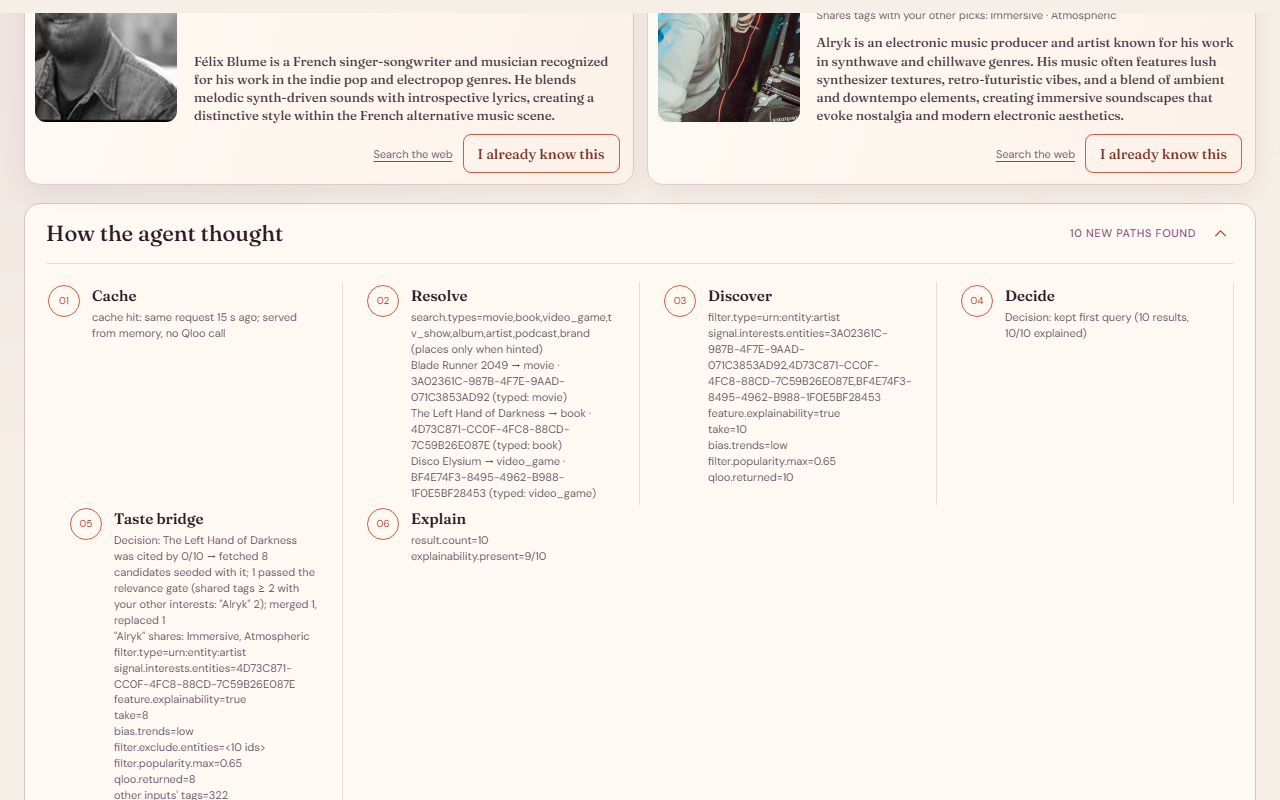
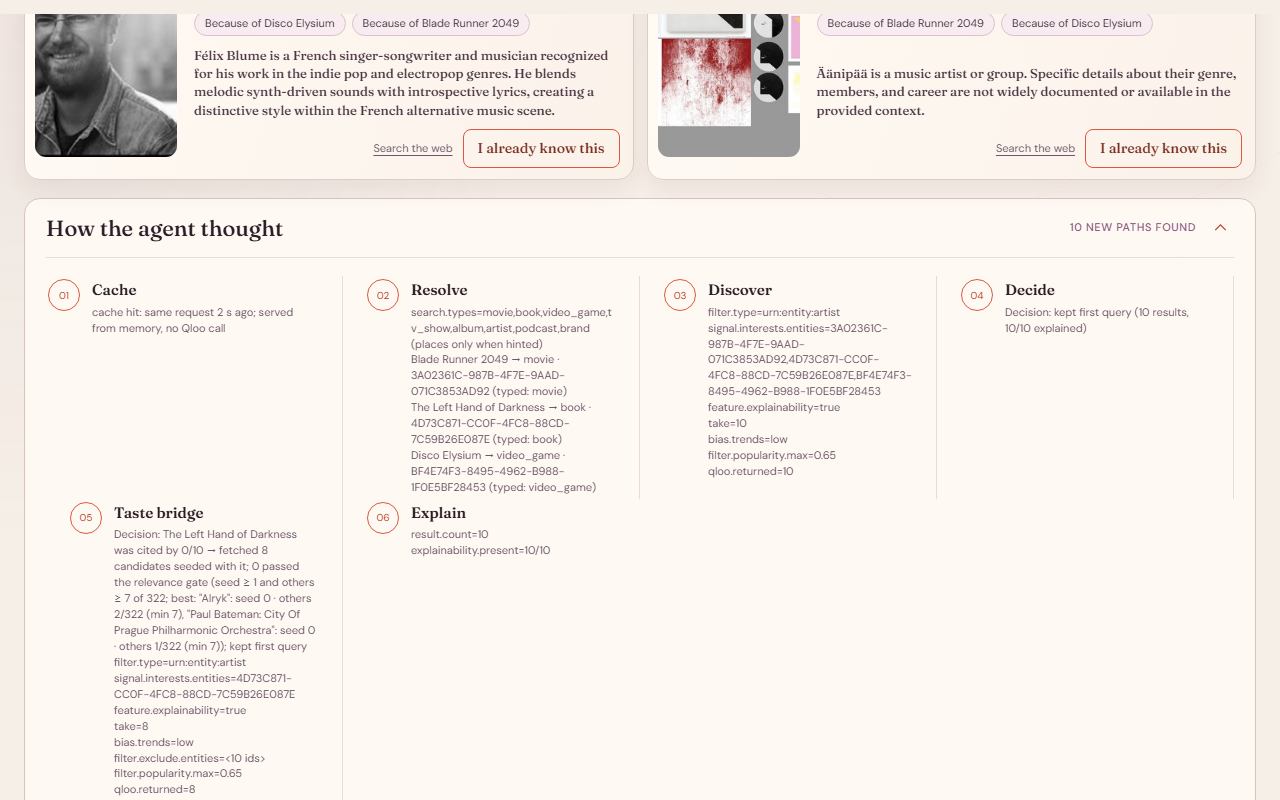
Bridge gate final: seed overlap ≥1 and others ≥2 (2%-of-union minimum was too strict on live)
63 tests in 6 files

Claude-Session: https://claude.ai/code/session_015bfJDXbxR3fNRPEXQYJQCV

diff --git a/server/src/agent.ts b/server/src/agent.ts
@@ -36,18 +36,12 @@ const POPULARITY_CEILING = 0.96;
 /** Page size of the one extra taste-bridge query seeded with an uncited input alone: a candidate pool, not results. */
 export const BRIDGE_TAKE = 8;
 /**
- * Relevance gate (thresholds set on 2026-10-27 live runs): a candidate must share >= BRIDGE_MIN_SEED_TAGS tags with
- * the seed input itself AND >= max(BRIDGE_MIN_SHARED_TAGS, ceil(BRIDGE_SHARED_SHARE x union size)) tags with the union
- * of the user's OTHER inputs' tags (that union runs to ~300 tags live, so a flat 2 let everything through).
+ * Relevance gate (final thresholds, 2026-10-27): a candidate must share >= BRIDGE_MIN_SEED_TAGS tag with the seed input
+ * itself AND >= BRIDGE_MIN_OTHER_TAGS tags with the union of the user's OTHER inputs' tags. The seed rule is what rejects
+ * look-alikes of the other inputs; a union-relative minimum was too strict live (union ~330 tags).
  */
 export const BRIDGE_MIN_SEED_TAGS = 1;
-export const BRIDGE_MIN_SHARED_TAGS = 2;
-export const BRIDGE_SHARED_SHARE = 0.02;
-
-/** Minimum tags a candidate must share with the other inputs' tag union of `unionSize`. */
-export function bridgeMinShared(unionSize: number): number {
-  return Math.max(BRIDGE_MIN_SHARED_TAGS, Math.ceil(BRIDGE_SHARED_SHARE * unionSize));
-}
+export const BRIDGE_MIN_OTHER_TAGS = 2;
 /** At most this many bridge candidates replace first-query cards. */
 export const BRIDGE_MAX_MERGE = 3;
 /** Tags that say nothing about taste (formats, platforms, audience age brackets) never count as shared. */
@@ -457,8 +451,8 @@ export class DiscoveryAgent {
   /**
    * The agent's taste decision. Count how many cards cite each input. If one input is cited by none, run ONE extra
    * /v2/insights call seeded with that input alone (same type and distance parameters, take=8) as a *candidate pool*.
-   * A candidate is merged only if it shares >= 1 tag with the seed itself AND >= bridgeMinShared(union) tags with the
-   * union of the user's OTHER inputs' tags (ranked by the latter, then affinity); at most BRIDGE_MAX_MERGE merge, each replacing the
+   * A candidate is merged only if it shares >= 1 tag with the seed itself AND >= 2 tags with the
+   * union of the user's OTHER inputs' tags (ranked by the latter, then seed tags, then affinity); at most BRIDGE_MAX_MERGE merge, each replacing the
    * lowest-affinity first-query card that is not some input's only citation. No passing candidate → nothing merges.
    */
   private async tasteBridge(
@@ -500,18 +494,18 @@ export class DiscoveryAgent {
     const seedTags = keys(await this.tagsOf(target));
     const others = resolved.filter((entity) => entity.id !== target.id);
     const otherTags = keys((await Promise.all(others.map((entity) => this.tagsOf(entity)))).flat());
-    const minShared = bridgeMinShared(otherTags.size);
     const scored = candidates
       .map((insight, index) => ({ insight, index, seed: sharedTags(insight.tags, seedTags), shared: sharedTags(insight.tags, otherTags) }))
       .sort((a, b) => b.shared.length - a.shared.length
+        || b.seed.length - a.seed.length
         || (affinityOf(b.insight) ?? -Infinity) - (affinityOf(a.insight) ?? -Infinity)
         || (b.insight.popularity ?? -Infinity) - (a.insight.popularity ?? -Infinity)
         || a.index - b.index);
-    const passed = scored.filter((entry) => entry.seed.length >= BRIDGE_MIN_SEED_TAGS && entry.shared.length >= minShared);
+    const passed = scored.filter((entry) => entry.seed.length >= BRIDGE_MIN_SEED_TAGS && entry.shared.length >= BRIDGE_MIN_OTHER_TAGS);
     const fetched = `→ fetched ${candidates.length} candidate${candidates.length === 1 ? "" : "s"} seeded with it`;
-    const gate = `seed ≥ ${BRIDGE_MIN_SEED_TAGS} and others ≥ ${minShared} of ${otherTags.size}`;
+    const gate = `seed ≥ ${BRIDGE_MIN_SEED_TAGS} and others ≥ ${BRIDGE_MIN_OTHER_TAGS} of ${otherTags.size}`;
     const quote = (entries: typeof scored) => entries
-      .map((entry) => `"${entry.insight.name}": seed ${entry.seed.length} · others ${entry.shared.length}/${otherTags.size} (min ${minShared})`).join(", ");
+      .map((entry) => `"${entry.insight.name}": seed ${entry.seed.length} · others ${entry.shared.length}/${otherTags.size} (min ${BRIDGE_MIN_OTHER_TAGS})`).join(", ");
     const params = `\n${formatInsightsQuery(bridgeQuery)}\nqloo.returned=${extra.length}\nother inputs' tags=${otherTags.size}`;
 
     // Room: a short first page takes candidates without dropping anything; otherwise replace the weakest cards.

diff --git a/server/src/bridge.test.ts b/server/src/bridge.test.ts
@@ -1,5 +1,5 @@
 import { afterEach, describe, expect, it, vi } from "vitest";
-import { BRIDGE_TAKE, DiscoveryAgent, bridgeMinShared, pickCardsToDrop, sharedTags } from "./agent.js";
+import { BRIDGE_TAKE, DiscoveryAgent, pickCardsToDrop, sharedTags } from "./agent.js";
 import { HttpQlooClient, decodeEntities } from "./http-qloo-client.js";
 import { MockQlooClient } from "./mock-qloo-client.js";
 import type { InsightQuery, QlooClient, QlooInsight, ResolvedEntity } from "./types.js";
@@ -102,9 +102,7 @@ describe("taste bridge", () => {
     expect(again.bridge?.merged).toBe(3);
   });
 
-  it("rejects candidates that fit the other inputs but not the seed, and scales the bar with the union size", async () => {
-    expect(bridgeMinShared(6)).toBe(2);
-    expect(bridgeMinShared(322)).toBe(7);
+  it("rejects candidates that fit the other inputs but not the seed", async () => {
     // Twin Peaks + Kind of Blue + Aesop: murder-mystery books match Twin Peaks richly but share nothing with the album.
     const tags: Record<string, string[]> = {
       "Twin Peaks": ["murder", "mystery", "small town", "surreal", "detective"],
@@ -128,6 +126,23 @@ describe("taste bridge", () => {
     expect(line).toBe("Decision: Kind of Blue was cited by 0/10 → fetched 2 candidates seeded with it; 0 passed the relevance gate "
       + "(seed ≥ 1 and others ≥ 2 of 8; best: \"Mystery One\": seed 0 · others 4/8 (min 2), \"Jazz Diary\": seed 1 · others 1/8 (min 2)); kept first query");
     expect(result.recommendations.some((item) => item.bridgedFrom)).toBe(false);
+  });
+
+  it("passes seed 2 · others 3 even when the other inputs' tag union is large", async () => {
+    const big = Array.from({ length: 40 }, (_, index) => `t${index}`);
+    const tags: Record<string, string[]> = { Seed: ["alpha", "beta"], Other: [...big, "x", "y", "z"] };
+    const fake: QlooClient = {
+      mode: "mock",
+      search: async (name) => [{ id: `id:${name}`, name, type: "movie", tags: tags[name] ?? [] }],
+      insights: async (query) => query.signalEntityIds.length === 1
+        ? [{ id: "c1", name: "Candidate", type: "artist", description: "", affinitySourceIds: [], affinitySourceNames: [], affinity: 0.5, tags: ["Alpha", "Beta", "X", "Y", "Z"] }]
+        : Array.from({ length: 10 }, (_, index) => ({ id: `r${index}`, name: `R${index}`, type: "artist", description: "",
+          affinitySourceIds: ["id:Other", "id:Third"], affinitySourceNames: [], affinity: index / 10 })),
+    };
+    const result = await new DiscoveryAgent(fake, noOneLiners).discover({ interests: ["Seed", "Other", "Third"], targetType: "artist", distance: 0 });
+    const line = result.trace.find((step) => step.stage === "bridge")?.detail.split("\n")[0] ?? "";
+    expect(line).toContain('"Candidate": seed 2 · others 3/43 (min 2)');
+    expect(result.bridge).toEqual({ input: "Seed", candidates: 1, passed: 1, merged: 1 });
   });
 
   it("drops the lowest-affinity cards but never an input's only citation", () => {

diff --git a/docs/DEVPOST.md b/docs/DEVPOST.md
@@ -1,6 +1,6 @@
 # Devpost submission draft: Out of the Bubble
 
-> Status: final text except the run numbers. All numbers: live site `/api/discover` (real Qloo key), 2026-10-27, measured with taste bridge **v1** (commit a88cab7, which merged 4 seeded cards unconditionally); re-measure after the v2 deploy. Cells marked † come from the earlier pre-bridge run the same day.
+> Status: final text. All numbers: live site `/api/discover` (real Qloo key), measured 2026-10-27; the table's ‡ note says which commit each cell ran on.
 
 ## Project name
 Out of the Bubble
@@ -36,25 +36,17 @@ The agent returns 10 ranked cards. Each card shows the recommendation, its categ
 
 If you already know one, press **"I already know this."** The agent excludes it, along with everything currently on screen, and refills that slot with a new result. Known items stay excluded across re-runs (slider moves, match switches, refills); only Start over or a different set of inputs clears them. The **"How the agent thought"** panel shows each step: Resolve, Discover, Decide, Taste bridge, Explain, and each Refill appended below the run.
 
-**A real run** (live site, 2026-10-27). Input: *Blade Runner 2049*, *The Left Hand of Darkness*, *Disco Elysium*. Target: artists.
+**Measured 2026-10-27 on the live site** (one `/api/discover` call per cell, real Qloo key). Default example: *Blade Runner 2049*, *The Left Hand of Darkness*, *Disco Elysium* → artists; examples 02 (Nausicaa, Braiding Sweetgrass, Patagonia → places in Kyoto) and 03 (Hades, Hadestown, Circe → podcasts) at Out of the bubble. Cited = cards on which Qloo's explainability names the input; seeded cards are not counted as cited.
 
-| Distance | First results (Qloo order) | Mean popularity of the 10 results |
-|---|---|---|
-| Next door | Oneohtrix Point Never, Yves Tumor, Iglooghost, Against All Logic, Aphex Twin | 0.845 (range 0.336 to 0.999) |
-| Across town | Daniel Lopatin, Hiroshi Yoshimura, Lingua Ignota, Spellling, Mid-Air Thief | 0.824 (range 0.336 to 0.955) |
-| Out of the bubble | Rural Internet, Voyage Futur, Sofie Birch, Dear Laika, Argo Nuff | 0.379 (range 0.082 to 0.619) |
+| Cell | Results | Cited (per input, in order) | Taste bridge | Explained | Mean popularity (range) |
+|---|---|---|---|---|---|
+| 01 Next door ‡ | 10 | 9 / 0 / 9 | book: 8 candidates, 1 passed, 1 merged | 9/10 | 0.952 (0.772–0.999) |
+| 01 Across town ‡ | 10 | 9 / 0 / 9 | book: 8 candidates, 1 passed, 1 merged | 9/10 | 0.884 (0.611–0.955) |
+| 01 Out of the bubble | 10 | 10 / 0 / 10 | book: 8 candidates, 0 passed, 0 merged, kept first query | 10/10 | 0.405 (0.131–0.619) |
+| 02 Out of the bubble ‡ | 10 | 0 / 7 / 7 | film: 8 candidates, 6 passed, 3 merged | 7/10 | 0.344 (0.013–0.550) |
+| 03 Out of the bubble ‡ | 10 | 10 / 0 / 10 | Hadestown: 8 candidates, 0 passed, 0 merged, kept first query | 10/10 | 0.510 (0.100–0.629) |
 
-In the first query Qloo credited the film and the game on all 10 cards and the book on none (10 / 0 / 10). Bridge v1 then merged 4 book-seeded cards at every stop; a reviewer found several off-taste (rockabilly, Brazilian funk), which is why v2 gates them on relevance (below). The overlap figures here still include v1's seeded cards.
-
-All three examples at all three stops. Each cell: cards with a Qloo explanation · mean popularity (range).
-
-| Example → resolves to | Next door | Across town | Out of the bubble | Shared cards ND–AT / AT–OB / ND–OB |
-|---|---|---|---|---|
-| 01 → artists (movie, book, video_game) | 10/10 · 0.845 (0.336–0.999) | 10/10 · 0.824 (0.336–0.955) | 10/10 · 0.379 (0.082–0.619) | 5 / 1 / 1 |
-| 02 → places in Kyoto (movie, book, brand) | 10/10 · 0.711 (0.449–0.989) † | 10/10 · 0.631 (0.179–0.927) † | 10/10 · 0.308 (0.002–0.550) | 7 / 5 / 4 † |
-| 03 → podcasts (video_game, place, book) | 10/10 · 0.983 (0.942–0.999) † | 10/10 · 0.891 (0.718–0.959) † | 10/10 · 0.510 (0.100–0.629) † | 2 / 0 / 0 † |
-
-The four v1 cells each logged "Decision: kept first query (10 results, 10/10 explained)" and ran the bridge (example 02: on the film, *Nausicaa*). Kyoto places overlap more between stops: the city filter leaves a smaller pool.
+‡ Measured at 18:07 JST on commit 756fa3b (gate: ≥ 2 tags shared with the other inputs); the live site moved to cad21e7 (stricter gate, text below) at about 18:15 and the cells without ‡ were measured on it. Pass counts on ‡ cells are therefore the looser gate's and are to be re-measured. In every cell Decide logged "kept first query (10 results, 10/10 explained)" before the bridge ran. The same default cell returned 1 passed at 18:06 and 0 passed at 18:17 (different gates and a refreshed Qloo pool), so a bridge outcome is not stable run to run.
 
 Each card's popularity badge uses fixed thresholds on Qloo popularity: "well known" from 0.85, "familiar" from 0.6 to 0.85, "deep cut" below 0.6. The far-out cap (0.65) sits below the "well known" floor, so an Out-of-the-bubble card can never be labelled "well known".
 
@@ -74,7 +66,7 @@ Each card's popularity badge uses fixed thresholds on Qloo popularity: "well kno
 - **Front end:** a single static HTML page with a small amount of vanilla TypeScript bundled by esbuild. No framework, no canvas. Two-column card grid on desktop, one column on phones; motion respects `prefers-reduced-motion`.
 - **Type-aware resolver:** `/search` runs with Qloo's `types` filter: only the hinted type when an input carries one, otherwise films, books, games, TV, albums, artists, podcasts and brands, with localities and venues never allowed to win an unhinted input; an untyped search is the fallback and obeys the same rules. Each input shows the type it matched as a small chip, and clicking it lists the top three other Qloo matches so the user can switch; the typed text stays, and the chip reads "typed → matched · type".
 - **Self-correction:** if fewer than 6 results came back or under half are explained, the agent retries once with one looser setting, keeps the better run, and logs a `Decision: … because …` line.
-- **Taste bridge (the agent's real decision):** the agent counts how many cards cite each input through explainability. If an input is cited by none, one extra `/v2/insights` call seeded with that input alone (same type and distance, `take=8`, first-page IDs excluded) builds a *candidate pool*, not results. A candidate passes only if it shares ≥ 1 Qloo tag with the seed itself *and* ≥ max(2, 2% of the union) tags with your *other* inputs' tags (ranked by the latter, then affinity); at most 3 merge, each replacing the lowest-affinity first-page card that is not an input's only citation. If none pass, nothing merges. The trace prints every number: `… 2 passed the relevance gate (seed ≥ 1 and others ≥ 7 of 322: "Alryk": seed 2 · others 9/322 (min 7), …); merged 2, replaced 2`, or `… 0 passed …; kept first query`. A merged card says "Seeded from …" with its shared tags, carries no Qloo score, and the bar counts it as *seeded*, never as *cited*: `The Left Hand of Darkness · 0 cited · 2 seeded`.
+- **Taste bridge (the agent's real decision):** the agent counts how many cards cite each input through explainability. If an input is cited by none, one extra `/v2/insights` call seeded with that input alone (same type and distance, `take=8`, first-page IDs excluded) builds a *candidate pool*, not results. A candidate passes only if it shares ≥ 1 Qloo tag with the seed itself *and* ≥ 2 tags with your *other* inputs' tags (ranked by the latter, then seed tags, then affinity); at most 3 merge, each replacing the lowest-affinity first-page card that is not an input's only citation. If none pass, nothing merges. The trace prints every number: `… 2 passed the relevance gate (seed ≥ 1 and others ≥ 2 of 322: "Alryk": seed 2 · others 9/322 (min 2), …); merged 2, replaced 2`, or `… 0 passed …; kept first query`. A merged card says "Seeded from …" with its shared tags, carries no Qloo score, and the bar counts it as *seeded*, never as *cited*: `The Left Hand of Darkness · 0 cited · 2 seeded`.
 - **Resolved-id reuse:** after the first run the browser sends each input back as `{id, name, type}`, so refills, slider moves and picker switches skip `/search` (the trace says "reused 3 resolved ids"). Fewer Qloo calls, and an input can't drift to a different entity mid-session.
 - **Testing:** Vitest suite running against a deterministic mock Qloo client with hand-written fictional fixtures (no real Qloo data is stored in the repo). 62 tests in 6 files pass (`npm test`); the mock exercises both gate branches (passes / nothing passes).
 - **Hosting:** Docker on Render (free tier), with a `render.yaml` blueprint. Because the free tier sleeps, the page detects slow cold starts, polls `/api/health`, and offers a retry instead of hanging.
@@ -83,12 +75,12 @@ Each card's popularity badge uses fixed thresholds on Qloo popularity: "well kno
 
 Remove Qloo and nothing is left to recommend. The app has no catalog, no ratings, and no co-occurrence data of its own. Qloo does every step that matters: it turns "a film, a book and a game" into entities in one shared taste graph (`/search`), it turns those entities into a ranked set of artists, books, podcasts or places (`/v2/insights` with `signal.interests.entities`), it supplies the "because of" evidence (`feature.explainability`), it implements the comfort-zone slider (`bias.trends` and popularity filters), and it runs the refill loop (`filter.exclude.entities`). An LLM on its own could name "artists for fans of Blade Runner," but it can't show measured cross-category affinity or which of your inputs produced a result, and it would drift back toward the famous names this project exists to avoid. The optional LLM only writes a one-line hook over results Qloo already chose.
 
-In the live run above, mean popularity drops from 0.845 to 0.379 between the end stops, which share only 1 of 10 cards: Qloo's popularity and trend signals doing the work, not prompt wording. (I ran no head-to-head against a plain LLM, so I make no claim about one.)
+In the live runs above, mean popularity on the default example drops from 0.952 (Next door) to 0.884 (Across town) to 0.405 (Out of the bubble): Qloo's popularity and trend signals doing the work, not prompt wording. (I ran no head-to-head against a plain LLM, so I make no claim about one.)
 
 ## Challenges I ran into
 
 - **Building before the API key arrived.** One `QlooClient` interface with a mock client (clearly fictional fixtures) and an HTTP client let the whole product be built and tested while I waited for the key.
-- **Making "distance from your comfort zone" concrete.** A slider means nothing unless it maps to real parameters, so each stop is a fixed combination of `bias.trends` and popularity bounds (Out of the bubble: `bias.trends=low` + `filter.popularity.max=0.65`). Result-set overlap was 1 of 10 between the two ends.
+- **Making "distance from your comfort zone" concrete.** A slider means nothing unless it maps to real parameters, so each stop is a fixed combination of `bias.trends` and popularity bounds (Out of the bubble: `bias.trends=low` + `filter.popularity.max=0.65`).
 - **Cold starts on a free host.** The first request after idle can take 50+ seconds. The UI shows a wake-up notice, polls health, and offers a retry after 65 seconds.
 - **Real responses differed from my assumptions.** (0) My first resolver took names at face value: *Nausicaa*, *Braiding Sweetgrass* and *Patagonia* all resolved to towns, and *Hades* to a black-metal band. The fix is the type-aware resolver above. Unhinted, *Hadestown* resolves to a book; the example pins the Broadway production (a place entity). (1) `/v2/insights` silently ignored the `limit=8` I first sent and returned its default page of 20; the API pages with `take`, which is what the client sends now; (2) `/search` returns fuzzy hits even for nonsense, so taking the first hit turned made-up names into unrelated entities; (3) how many inputs Qloo cites per card varies with the inputs: on the default example the film and the game are cited on every card and the book on none, while *Twin Peaks* + *Kind of Blue* + *Aesop* (as an artist) cited all three on every card. The app shows every source Qloo returns, so a shut-out input is Qloo's result, not a display cut; that is why the bridge checks for it on every run; (4) an artist can be a collaboration entity (for example "Ape Escape,Soichi Terada").
 

diff --git a/docs/DECISIONS.md b/docs/DECISIONS.md
@@ -25,7 +25,7 @@ This file records the reasonable product and engineering choices made while impl
 - **Match picker:** each input token shows the matched type as a small button. It opens the top three other matches from `/api/resolve` (`alternatives: true`, the input's type hint sent along; typed hits first, then other entity types from the untyped search fill any room; name similarity ≥ 0.6). Names are HTML-entity-decoded, one row per name+type (the current match counts), and a year/author disambiguator is shown when the Qloo search row carries one. Picking one pins that entity id for the input and re-runs discovery when results are on screen.
 - **Taste bridge v2 (relevance-gated):** after Decide, the agent counts how many cards cite each resolved input. If one is cited by 0 cards (full pages only, 2+ inputs), one extra `/v2/insights` call seeded with that input alone (same type/distance parameters, `take=8`, first-page IDs excluded) returns a *candidate pool*. v1 merged 4 such cards unconditionally; a reviewer found them off-taste (rockabilly and Brazilian funk for a sci-fi novel, a football podcast for Hadestown, romance novels for Aesop), so v2 gates them:
   - Score = number of the candidate's Qloo `tags` (insights rows carry them; the client passes them through) that also appear in the union of the OTHER inputs' tags (from `/search`; cached by id so re-runs with reused ids still have them, else one typed `/search` per input fills them). Tags compare case-, accent- and punctuation-insensitively; format/platform/age-bracket tags ("Audiobook", "Paperback", "18-24", "Microsoft Windows", "Single-player"…) never count. Ties: higher affinity (`query.affinity`, else `score`), then popularity.
-  - Gate (thresholds set on 2026-10-27 live runs): (i) ≥ 1 tag shared with the SEED input's own tags, so the card actually represents it, AND (ii) ≥ max(2, ceil(2% × union size)) tags shared with the other inputs' union, ranked by (ii) then affinity. A flat ≥ 2 failed live: for Twin Peaks + Kind of Blue + Aesop → books the union held 273–322 tags, all 8 candidates passed, and the 3 merged murder mysteries matched Twin Peaks, not the album. The Decision line prints all three numbers per candidate: `"Alryk": seed 2 · others 3/322 (min 7)`. At most 3 merge, each replacing the lowest-affinity first-page card that is not some input's only citation (if no such card is left, fewer merge). No passing candidate → nothing merges and the line says `0 passed the relevance gate` (with the best near-misses).
+  - Gate (final thresholds, 2026-10-27): pass iff seed ≥ 1 (a tag shared with the SEED input's own tags, so the card represents it) AND others ≥ 2 (tags shared with the other inputs' union); ranked by others, then seed, then affinity. Three thresholds were tried today: (1) others ≥ 2 only → too loose: for Twin Peaks + Kind of Blue + Aesop → books the union held 273–338 tags, all 8 candidates passed, and the 3 merged murder mysteries matched Twin Peaks, not the album; (2) others ≥ max(2, 2% of union) → too strict live: the bar became 7, so plausible candidates failed (`"Tim Shiel": seed 2 · others 3/322 (min 7)`, which judge round 4 called plausible); (3) final: seed ≥ 1 and others ≥ 2, because the seed rule alone already rejects the bad case (`"One for Sorrow": seed 0 · others 13/338`). The Decision line prints all three numbers per candidate: `"Tim Shiel": seed 2 · others 3/322 (min 2)`. At most 3 merge, each replacing the lowest-affinity first-page card that is not some input's only citation (if no such card is left, fewer merge). No passing candidate → nothing merges and the line says `0 passed the relevance gate` (with the best near-misses).
   - The mock still exercises both branches (example 02: passes at Out of the bubble, nothing passes at Across town).
   - A merged card carries `bridgedFrom` (rendered "Seeded from …"), `becauseOf` = only the seed, score `null`, `explainabilityPresent=false`, and `sharedTags`. The bar counts Qloo-cited and seeded cards separately. Only one extra call; if it fails, the first page stands. One-card refills never bridge.
 - **Rate limits:** per client 20 `/api` requests a minute (health exempt), counted before body parsing so 400s count too. The key is the first `X-Forwarded-For` entry (else the socket address): with `trust proxy=1`, `req.ip` is the last hop, which on Render rotated per request, so the first limiter never fired. XFF is spoofable, so a global cap of 120 Qloo-hitting requests a minute (cache hits excluded) answers 503 "busy". The derived key is logged at most once a minute.

diff --git a/README.md b/README.md
@@ -77,7 +77,7 @@ Browser
 
 The Express server serves the API and the compiled vanilla TypeScript single page. `server/src/agent.ts` owns the complete loop and produces an in-memory trace that appears under **How the agent thought**. The Qloo clients share one interface, so tests run entirely against deterministic, hand-written fictional fixtures.
 
-**Taste bridge.** After the first insights call the agent counts how many cards cite each input (Qloo explainability). If an input is cited by none (live, *The Left Hand of Darkness* gets 0 of 10 artist cards while the film and the game get 10 each), one extra `/v2/insights` call seeded with that input alone (same type and distance, `take=8`) fetches a *candidate pool*. A candidate merges only if it shares ≥ 1 Qloo tag with the seed itself and ≥ max(2, 2% of the union) tags with the other inputs' tags; at most 3 merge, replacing the lowest-affinity first-page cards that are not an input's only citation; if none pass, nothing merges. Merged cards read "Seeded from …" with their shared tags and no Qloo score. The trace logs the numbers either way, and the bar above the grid counts *cited* (Qloo) and *seeded* (agent) cards separately. "I already know this" exclusions persist across slider moves, match switches and refills until Start over or a change in the set of inputs.
+**Taste bridge.** After the first insights call the agent counts how many cards cite each input (Qloo explainability). If an input is cited by none (live, *The Left Hand of Darkness* gets 0 of 10 artist cards while the film and the game get 10 each), one extra `/v2/insights` call seeded with that input alone (same type and distance, `take=8`) fetches a *candidate pool*. A candidate merges only if it shares ≥ 1 Qloo tag with the seed itself and ≥ 2 tags with the other inputs' tags; at most 3 merge, replacing the lowest-affinity first-page cards that are not an input's only citation; if none pass, nothing merges. Merged cards read "Seeded from …" with their shared tags and no Qloo score. The trace logs the numbers either way, and the bar above the grid counts *cited* (Qloo) and *seeded* (agent) cards separately. "I already know this" exclusions persist across slider moves, match switches and refills until Start over or a change in the set of inputs.
 
 **Resolved-id reuse.** Once inputs have resolved, refills, slider moves and picker switches send `{ id, name, type }` back, so the server skips `/search` and the trace says "reused 3 resolved ids". A refill's trace is appended under the original run instead of replacing it.
 
@@ -140,11 +140,11 @@ All four were captured from the live deployment (real Qloo data, "Live Qloo" bad
 
 ![Results with the taste-bridge bar](docs/screenshots/02_results.png)
 
-*Live results at Out of the bubble. Screenshot from bridge v1 (before the relevance gate): the bar showed each input's share of the 10 cards (Blade Runner 6, Left Hand of Darkness 4, Disco Elysium 6), with 4 unconditionally merged book-seeded cards. v2 labels such cards "Seeded from …" and counts them apart from Qloo citations. Every card has a Qloo image. The four bridge cards sit at the bottom of the list (see the next screenshot), below this frame.*
+*Live results at Out of the bubble (1280x800, commit cad21e7, served from the 10-minute cache). Taste-bridge bar: Blade Runner 2049 10 cited, The Left Hand of Darkness 0 cited, Disco Elysium 10 cited, with the chip "extra query: none relevant enough" because no book-seeded candidate passed the relevance gate in this run, so nothing was merged. An earlier run the same day passed one candidate and showed "0 cited · 1 seeded"; the outcome varies between runs. Every card has a Qloo image.*
 
 ![How the agent thought](docs/screenshots/03_trace.png)
 
-*The trace panel expanded (bridge v1): Resolve, Discover, Decide (kept first query), Taste bridge (0 of 10 cards cited the book, one extra query with its exact parameters including `filter.exclude.entities=<10 ids>`, 4 merged, 4 dropped) and Explain.*
+*The trace panel expanded (same run): a Cache step (cache hit), Resolve, Discover, Decide (kept first query, 10/10 explained), Taste bridge (0 of 10 cards cited the book; one extra query with its exact parameters including `filter.exclude.entities=<10 ids>`; the Decision line prints the gate numbers, 0 of 8 candidates passed, best "Alryk" with seed 0 and others 2/322 against a minimum of 7; kept first query) and Explain.*
 
 ![Mobile results](docs/screenshots/04_mobile.png)
 
